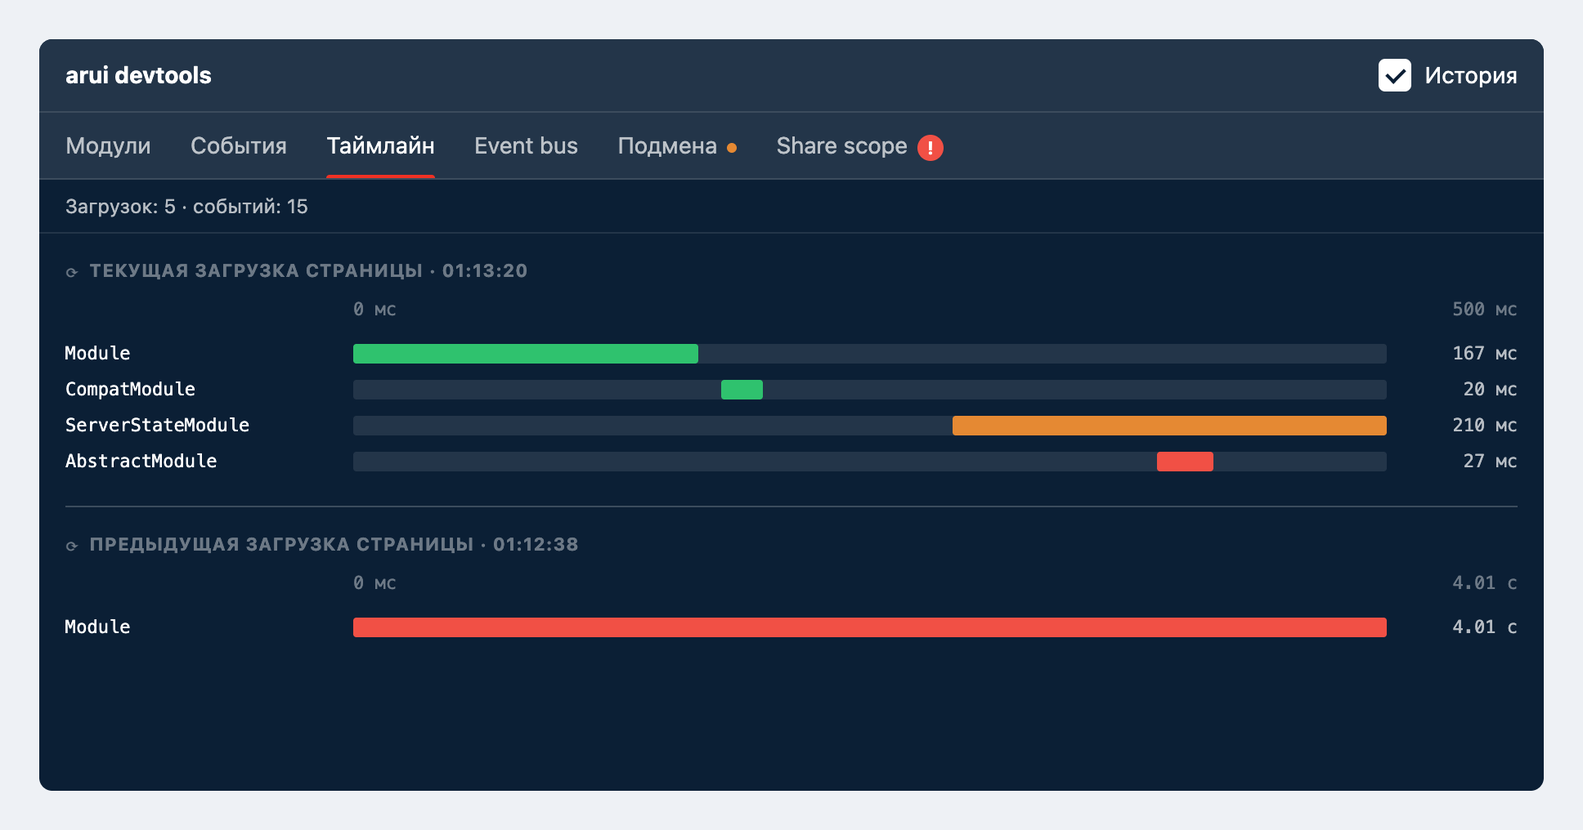
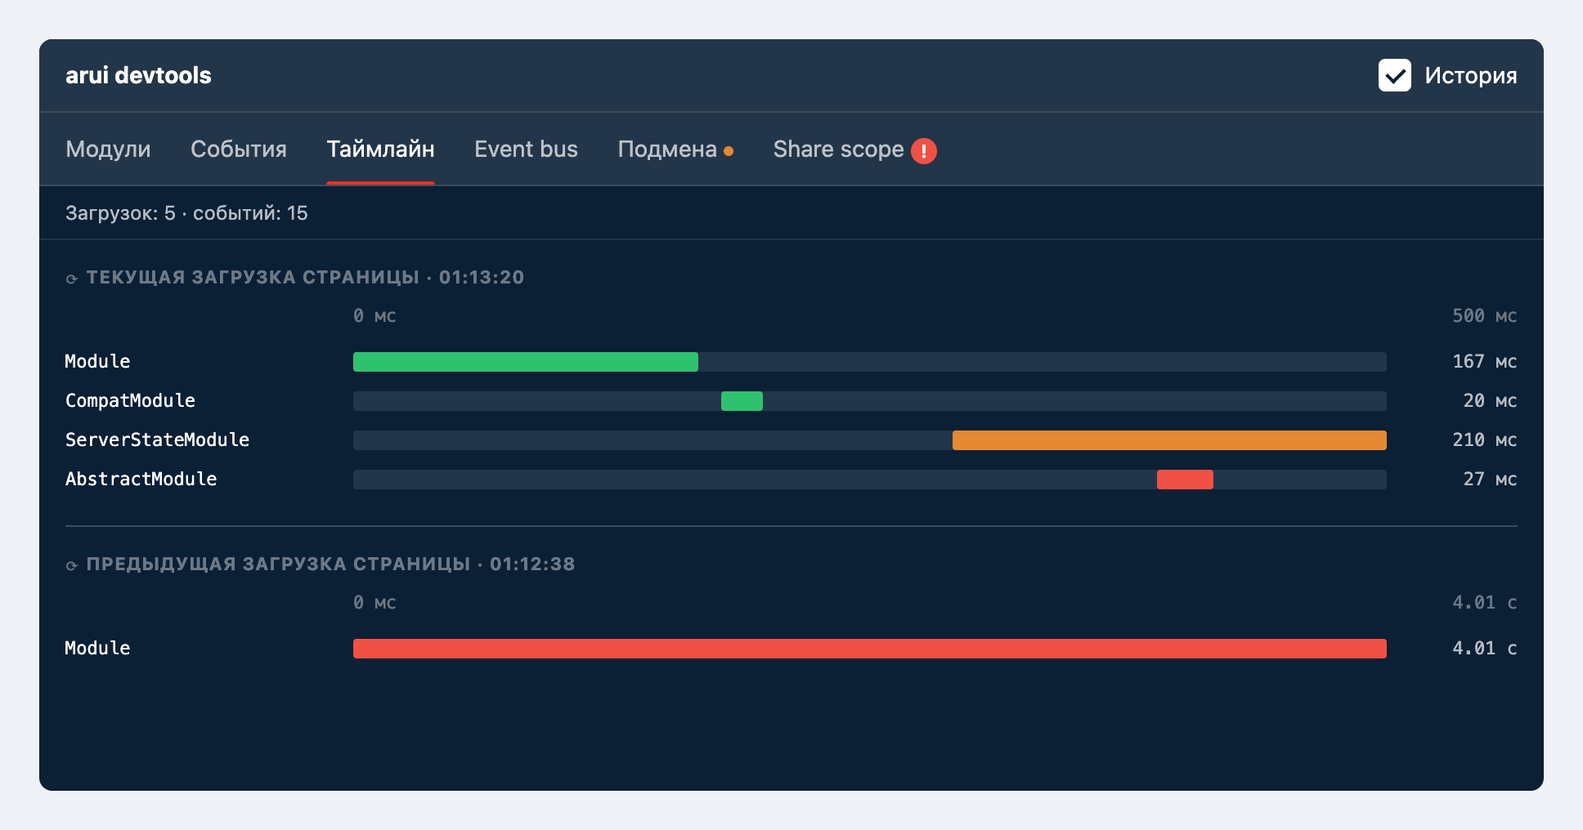
style(scripts-devtools): pin the panel look to core-components
Панель и раньше была собрана по дизайн-системе, но сверка была разовой и ручной.

- @alfalab/core-components стоит в devDependencies ради теста: design-tokens.tests.ts
  читает настоящие файлы дизайн-системы из node_modules и сверяет с ними каждое
  запасное значение переменной и каждое число размера;
- размеры приведены на шкалу --gap-* и --border-radius-*: чипы, метки вкладок,
  разделители, строки таймлайна и подмен, кружок подсказки;
- четыре размера остались мимо шкалы осознанно - причина записана рядом с числом
  и перечислена в SCALE_EXCEPTIONS.

Цвета и тени сошлись с core-components 42 без единой правки: расхождений тест
не нашёл, менять было нечего.

diff --git a/packages/arui-scripts-devtools/src/__tests__/design-tokens.tests.ts b/packages/arui-scripts-devtools/src/__tests__/design-tokens.tests.ts
@@ -1,0 +1,188 @@
+import fs from 'fs';
+import path from 'path';
+
+import PANEL_STYLES from '../panel/styles.css';
+
+/**
+ * Панель не импортирует `@alfalab/core-components/vars`: расширение обязано быть
+ * самодостаточным - у документа DevTools нет ни приложения, ни его палитры. Поэтому переменные
+ * дизайн-системы названы по именам и продублированы запасными значениями, а размеры написаны
+ * числами.
+ *
+ * И копия значений, и числа живут ровно до первой невнимательной правки, поэтому сверяем их
+ * с настоящей дизайн-системой: пакет стоит в devDependencies как раз ради этого теста.
+ */
+const CORE = path.dirname(
+    path.dirname(require.resolve('@alfalab/core-components/vars/colors-indigo.css')),
+);
+
+/** файлы, в которых объявлены токены, к которым обращается панель */
+const TOKEN_FILES = [
+    'vars/colors-indigo.css',
+    'vars/colors.css',
+    'vars/colors-addons.css',
+    'vars/shadows-indigo.css',
+    'vars/typography.css',
+    'vars/border-radius.css',
+    'vars/gaps.css',
+];
+
+/** компоненты, чью геометрию панель повторяет: их размеры тоже часть дизайн-системы */
+const COMPONENT_FILES = ['button/desktop.css', 'tag/desktop.css', 'status/index.css'];
+
+const normalize = (value: string) => value.replace(/\s+/g, ' ').replace(/,\s*/g, ', ').trim();
+
+function read(file: string): string {
+    return fs.readFileSync(path.join(CORE, file), 'utf8');
+}
+
+/** все объявления `--name: value` дизайн-системы; первое объявление считаем основным */
+function readDesignTokens(): Map<string, string> {
+    const tokens = new Map<string, string>();
+
+    TOKEN_FILES.forEach((file) => {
+        Array.from(read(file).matchAll(/(--[a-z0-9-]+):\s*([^;]+);/gi)).forEach(
+            ([, name, value]) => {
+                if (!tokens.has(name)) {
+                    tokens.set(name, normalize(value));
+                }
+            },
+        );
+    });
+
+    return tokens;
+}
+
+/** обращения панели к дизайн-системе: имя токена и запасное значение рядом с ним */
+function readPanelFallbacks(): Array<{ name: string; fallback: string }> {
+    const used: Array<{ name: string; fallback: string }> = [];
+
+    Array.from(PANEL_STYLES.matchAll(/var\((--[a-z0-9-]+),/gi)).forEach((match) => {
+        const start = (match.index ?? 0) + match[0].length;
+        let depth = 1;
+        let end = start;
+
+        // запасное значение может само содержать скобки: у теней и шрифтов их сколько угодно
+        while (end < PANEL_STYLES.length && depth > 0) {
+            if (PANEL_STYLES[end] === '(') {
+                depth += 1;
+            }
+
+            if (PANEL_STYLES[end] === ')') {
+                depth -= 1;
+            }
+
+            end += 1;
+        }
+
+        used.push({ name: match[1], fallback: normalize(PANEL_STYLES.slice(start, end - 1)) });
+    });
+
+    return used;
+}
+
+/** значения шкалы: числа из токенов, чьё имя подходит под образец */
+function readScale(files: string[], name: RegExp): Set<number> {
+    const values = new Set<number>();
+
+    files.forEach((file) => {
+        Array.from(read(file).matchAll(/(--[a-z0-9-]+):\s*(-?\d+)px[;\s]/gi)).forEach(
+            ([, token, value]) => {
+                if (name.test(token)) {
+                    values.add(Math.abs(Number(value)));
+                }
+            },
+        );
+    });
+
+    return values;
+}
+
+/** значения из миксинов типографики: у них нет имён, только сами правила */
+function readTypography(property: string): Set<number> {
+    const css = read('vars/typography.css');
+    const found = css.matchAll(new RegExp(`${property}:\\s*(\\d+)px`, 'g'));
+
+    return new Set(Array.from(found).map(([, value]) => Number(value)));
+}
+
+/**
+ * Размеры мимо шкалы - у каждого своя причина, и она записана в styles.css рядом:
+ * padding кнопки дизайн-системы, две колоночные выкладки и приём «скрыть, но озвучить».
+ */
+const SCALE_EXCEPTIONS = ['0 15px', '12px 16px 16px 44px', '176px', '-1px'];
+
+describe('цвета и тени панели', () => {
+    const design = readDesignTokens();
+    const used = readPanelFallbacks();
+
+    it('should read the design system', () => {
+        expect(design.size).toBeGreaterThan(100);
+        expect(used.length).toBeGreaterThan(10);
+    });
+
+    it('should name only variables the design system really has', () => {
+        // опечатка в имени не видна глазом: переменной нет - молча берётся запасное значение,
+        // и палитра приложения перестаёт на панель влиять
+        const unknown = used.filter(({ name }) => !design.has(name)).map(({ name }) => name);
+
+        expect(Array.from(new Set(unknown))).toEqual([]);
+    });
+
+    it('should keep every fallback equal to the design system value', () => {
+        const drifted = used
+            .filter(({ name, fallback }) => design.has(name) && design.get(name) !== fallback)
+            .map(
+                ({ name, fallback }) =>
+                    `${name}: у нас ${fallback}, в core-components ${design.get(name)}`,
+            );
+
+        expect(drifted).toEqual([]);
+    });
+});
+
+describe('шкала размеров панели', () => {
+    const gaps = readScale(['vars/gaps.css'], /^--gap-/);
+    const radii = readScale(
+        ['vars/border-radius.css', ...COMPONENT_FILES],
+        /border-radius$|^--border-radius-/,
+    );
+    const scales: Record<string, Set<number>> = {
+        'border-radius': radii,
+        'font-size': readTypography('font-size'),
+        'line-height': readTypography('line-height'),
+    };
+
+    it('should read the design system scale', () => {
+        expect(gaps.size).toBeGreaterThan(5);
+        expect(radii.size).toBeGreaterThan(5);
+        expect(scales['font-size'].size).toBeGreaterThan(5);
+    });
+
+    it('should keep every size on the design system scale', () => {
+        const offScale: string[] = [];
+
+        Array.from(
+            PANEL_STYLES.matchAll(
+                /^\s*(padding|margin|gap|border-radius|font-size|line-height)(-[a-z]+)?:\s*([^;]+);/gm,
+            ),
+        ).forEach(([, property, side, rawValue]) => {
+            const value = rawValue.trim();
+
+            if (/var\(|%|auto|calc/.test(value) || SCALE_EXCEPTIONS.includes(value)) {
+                return;
+            }
+
+            const scale = scales[property] ?? gaps;
+            const sizes = Array.from(value.matchAll(/(-?\d+)px/g)).map(([, size]) =>
+                Math.abs(Number(size)),
+            );
+
+            if (sizes.some((size) => size !== 0 && !scale.has(size))) {
+                offScale.push(`${property}${side ?? ''}: ${value}`);
+            }
+        });
+
+        expect(offScale).toEqual([]);
+    });
+});

diff --git a/packages/arui-scripts-devtools/src/panel/styles.css b/packages/arui-scripts-devtools/src/panel/styles.css
@@ -3,14 +3,21 @@
  * Шрифты только системные: панель не имеет права тянуть внешние ресурсы.
  *
  * Внешний вид собран по дизайн-системе core-components: цвета - тёмная палитра
- * ('--color-dark-*'), кнопки, вкладки и статусы повторяют геометрию соответствующих компонентов.
- * Импортировать '@alfalab/core-components/vars' нельзя: у пакета ноль зависимостей. Поэтому
- * переменные дизайн-системы названы по именам с запасными значениями: подключило приложение
- * вары - панель возьмёт его палитру, не подключило - свою копию. Размеры мимо 'var()' намеренно:
- * имена вроде '--gap-s' слишком общие, и чужое значение из приложения развалило бы вёрстку.
+ * ('--color-dark-*'), кнопки, вкладки, чипы и подсказки повторяют геометрию соответствующих
+ * компонентов, а размеры взяты со шкалы '--gap-*' и '--border-radius-*'.
  *
- * В бандл файл попадает строкой (asset/source в scripts/bundle-mount.js) и вставляется
- * в <style> внутри shadow root - см. mount.tsx.
+ * Импортировать '@alfalab/core-components/vars' нельзя: расширение живёт в документе DevTools,
+ * где нет ни приложения, ни его палитры, и обязано быть самодостаточным. Поэтому переменные
+ * дизайн-системы названы по именам с запасными значениями (подключило приложение вары - панель
+ * возьмёт его палитру, не подключило - свою копию), а размеры написаны числами: имена вроде
+ * '--gap-s' слишком общие, и чужое значение из приложения развалило бы вёрстку.
+ *
+ * Что копия не разошлась с оригиналом, следит 'design-tokens.tests.ts': он читает настоящие
+ * файлы core-components из node_modules и сверяет с ними и запасные значения, и каждое число.
+ * Размеры мимо шкалы перечислены там же в SCALE_EXCEPTIONS - у каждого причина записана рядом.
+ *
+ * В бандл файл попадает строкой (asset/source в scripts/bundle-extension.js) и вставляется
+ * в <style> внутри shadow root - см. extension/panel.tsx.
  *
  * Отключённые ниже правила stylelint написаны для приложений с установленной дизайн-системой:
  * они требуют её переменные и миксины, которые панели недоступны по построению.
@@ -140,6 +147,8 @@
     align-items: center;
     justify-content: center;
     min-height: 32px;
+
+    /* 15, а не 16: у Button дизайн-системы отступ учитывает рамку в 1px */
     padding: 0 15px;
     border: none;
     border-radius: 6px;
@@ -204,7 +213,7 @@
 
 .tab {
     position: relative;
-    padding: 10px 0;
+    padding: 12px 0;
     border: none;
     background: transparent;
     color: var(--arui-devtools-text-secondary);
@@ -226,7 +235,7 @@
     justify-content: center;
     width: 16px;
     height: 16px;
-    margin-left: 6px;
+    margin-left: 4px;
     border-radius: 50%;
     background: var(--arui-devtools-negative);
     color: var(--arui-devtools-text);
@@ -242,7 +251,7 @@
     display: inline-block;
     width: 6px;
     height: 6px;
-    margin-left: 6px;
+    margin-left: 4px;
     border-radius: 50%;
     background: var(--arui-devtools-attention);
     vertical-align: middle;
@@ -327,7 +336,7 @@
    «упало, перезагрузил, упало снова» читается как два падения подряд */
 .row_separator {
     display: block;
-    padding: 6px 16px;
+    padding: 8px 16px;
     background: var(--arui-devtools-bg-secondary);
     cursor: default;
 }
@@ -335,7 +344,7 @@
 .page-load {
     display: inline-flex;
     align-items: center;
-    gap: 6px;
+    gap: 4px;
     color: var(--arui-devtools-text-tertiary);
     font-size: 11px;
     font-weight: 700;
@@ -429,7 +438,7 @@
     align-items: center;
     height: 20px;
     margin-left: 8px;
-    padding: 0 6px;
+    padding: 0 8px;
     border-radius: 4px;
     background: var(--arui-devtools-bg-tertiary);
     color: var(--arui-devtools-text-secondary);
@@ -440,6 +449,7 @@
 }
 
 .details {
+    /* левый отступ выравнивает подробности с названием модуля в строке таблицы */
     padding: 12px 16px 16px 44px;
     border-bottom: 1px solid var(--arui-devtools-border-subtle);
     background: var(--arui-devtools-bg-secondary);
@@ -556,7 +566,7 @@
     grid-template-columns: minmax(140px, 1fr) 16px minmax(140px, 1fr) auto auto;
     gap: 8px;
     align-items: center;
-    padding: 6px 0;
+    padding: 8px 0;
 }
 
 .overrides__from {
@@ -605,6 +615,8 @@
     display: flex;
     justify-content: space-between;
     margin-bottom: 8px;
+
+    /* шкала начинается там же, где полоски: колонка названий плюс отступ сетки */
     padding-left: 176px;
     color: var(--arui-devtools-text-tertiary);
     font-family: var(--arui-devtools-font-mono);
@@ -617,7 +629,7 @@
     grid-template-columns: 168px 1fr 72px;
     gap: 8px;
     align-items: center;
-    padding: 3px 0;
+    padding: 4px 0;
 }
 
 .timeline__label {
@@ -730,7 +742,7 @@ a.resource__url:hover {
 
 .waterfall__stage {
     display: inline-flex;
-    gap: 6px;
+    gap: 4px;
     align-items: center;
     color: var(--arui-devtools-text-secondary);
 }
@@ -748,15 +760,15 @@ a.resource__url:hover {
     align-items: center;
     justify-content: center;
     box-sizing: border-box;
-    width: 14px;
-    height: 14px;
+    width: 16px;
+    height: 16px;
     padding: 0;
     border: 1px solid currentColor;
     border-radius: 50%;
     background: transparent;
     color: var(--arui-devtools-text-tertiary);
     font-family: var(--arui-devtools-font);
-    font-size: 10px;
+    font-size: 11px;
     font-weight: 700;
     line-height: 1;
     cursor: help;

diff --git a/packages/arui-scripts-devtools/README.md b/packages/arui-scripts-devtools/README.md
@@ -139,11 +139,18 @@ yarn build && node scripts/render-screenshots.js
     целиком. Так у стилей остаётся один путь — `:host` с токенами работает как есть,
     а `extension/panel-styles.css` добавляет только геометрию под вкладку DevTools.
 -   **Внешний вид — по дизайн-системе [core-components][core-components], но без зависимости
-    от неё.** Цвета берутся из тёмной палитры (`--color-dark-*`), кнопки, вкладки и статусы
-    повторяют геометрию соответствующих компонентов. Переменные названы по именам дизайн-системы
-    и продублированы запасными значениями. Новый цвет мимо токена ловит тест в `styles.tests.ts`.
-    Правила `stylelint-core-vars` в `panel/styles.css` отключены осознанно — и по этому файлу
-    нельзя запускать `stylelint --fix`, его фиксер игнорирует disable-комментарии.
+    в рантайме.** Цвета берутся из тёмной палитры (`--color-dark-*`), кнопки, вкладки, чипы
+    и подсказки повторяют геометрию соответствующих компонентов, размеры лежат на шкале
+    `--gap-*` и `--border-radius-*`. Переменные названы по именам дизайн-системы
+    и продублированы запасными значениями, размеры написаны числами: имена вроде `--gap-s`
+    слишком общие, и чужое значение из приложения развалило бы вёрстку.
+-   **Что копия не разошлась с оригиналом, проверяет тест.** `design-tokens.tests.ts` читает
+    настоящие файлы `@alfalab/core-components` из node_modules (пакет стоит в devDependencies
+    ровно ради этого) и сверяет с ними каждое запасное значение и каждое число. Размеры мимо
+    шкалы перечислены там в `SCALE_EXCEPTIONS`, причина каждого записана в `styles.css` рядом.
+    Новый цвет мимо токена ловит `styles.tests.ts`. Правила `stylelint-core-vars`
+    в `panel/styles.css` отключены осознанно — и по этому файлу нельзя запускать
+    `stylelint --fix`, его фиксер игнорирует disable-комментарии.
 
 ## Контракт данных
 

diff --git a/.changeset/devtools-extension.md b/.changeset/devtools-extension.md
@@ -17,6 +17,13 @@
 Ставится из папки `build/extension`, приложению для этого не нужно ничего, кроме
 `@alfalab/scripts-modules`.
 
+Записи предыдущих загрузок страницы никуда не деваются после F5: расширение разделяет их
+заголовком и даёт каждой свою ось на таймлайне — модуль, упавший на старте, ищут уже после
+перезагрузки. Показ истории отключается переключателем в шапке.
+
+Страницу расширение только читает и только пока вкладку **ARUI** видно: ушли на «Elements» —
+опрос встал, вернулись — панель спрашивает страницу сразу.
+
 **Ломающее для тех, кто уже пробовал панель:** ключ конфигурации `devtools` из
 `arui-scripts.config` удалён — уберите его, иначе сборка упадёт на неизвестном ключе. Код панели
 больше не подмешивается в клиентский бандл: и хоткей с бейджем, и сам чанк панели из приложений
